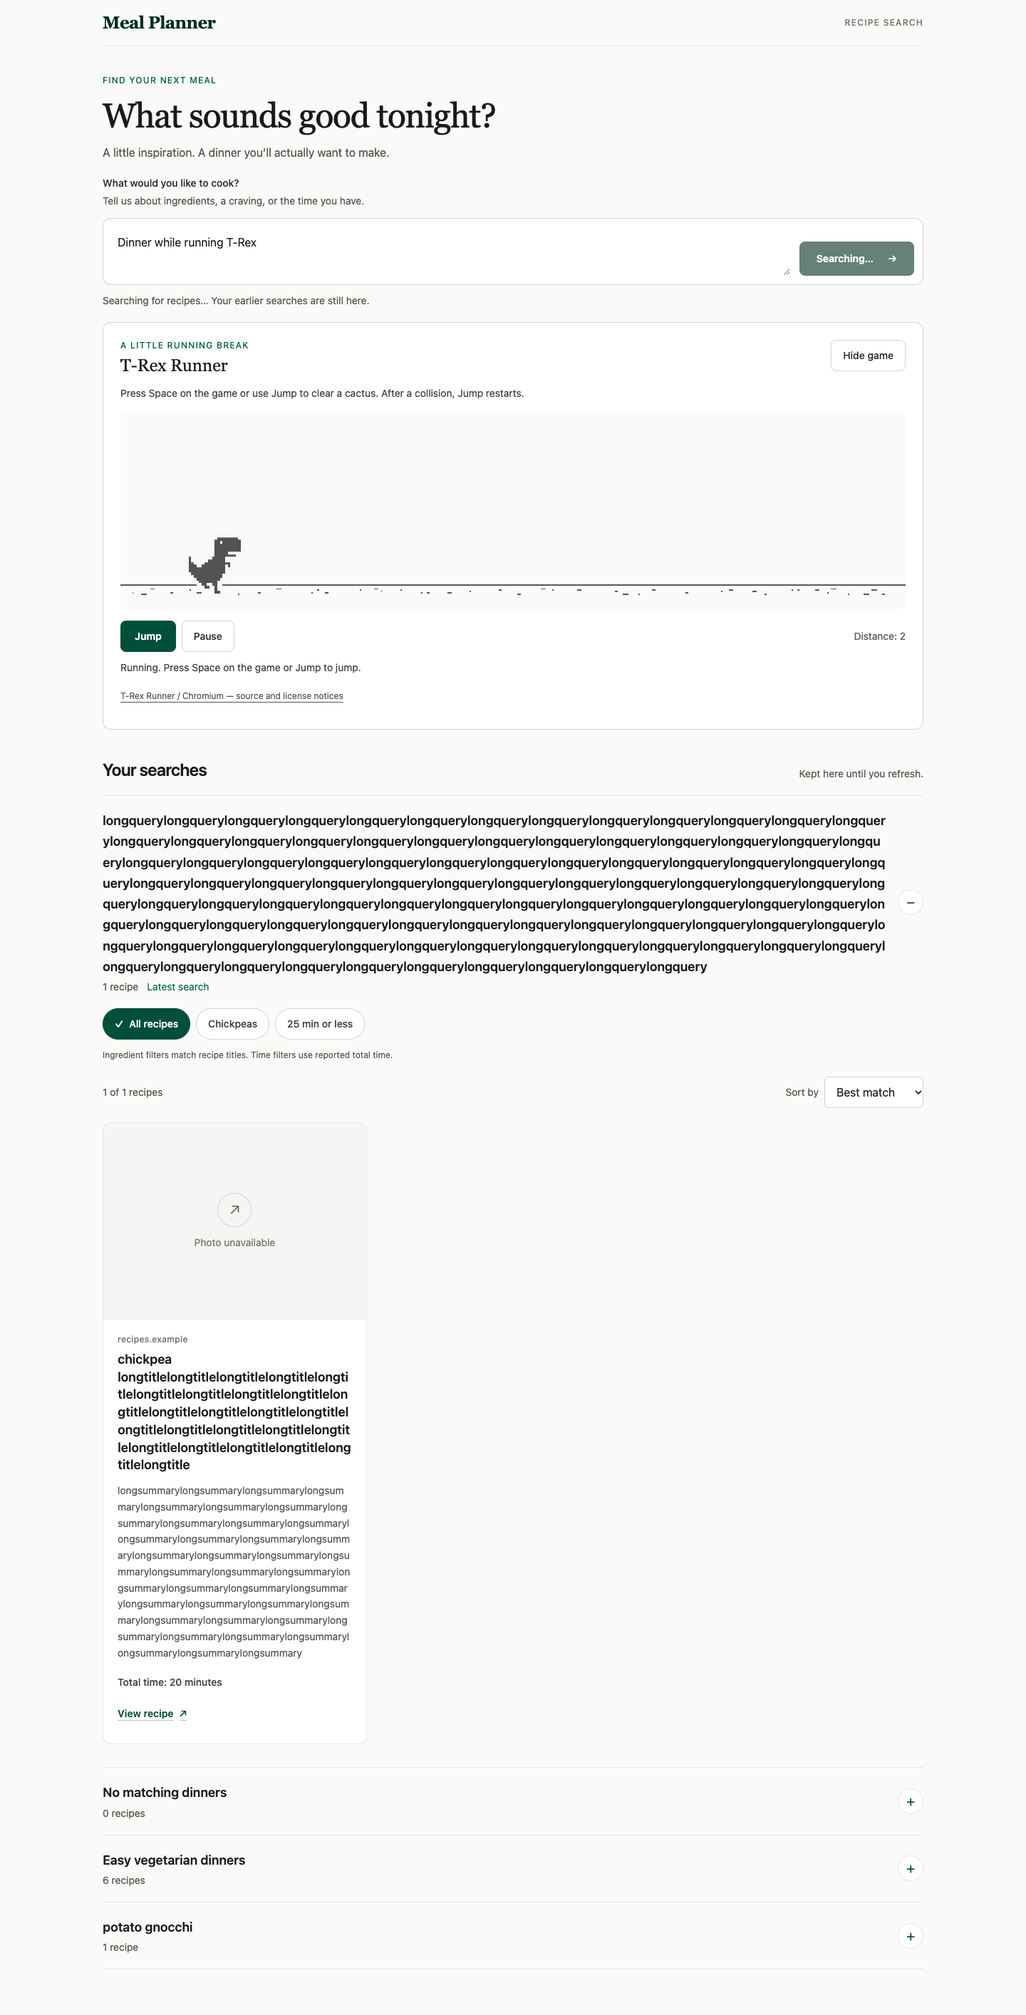
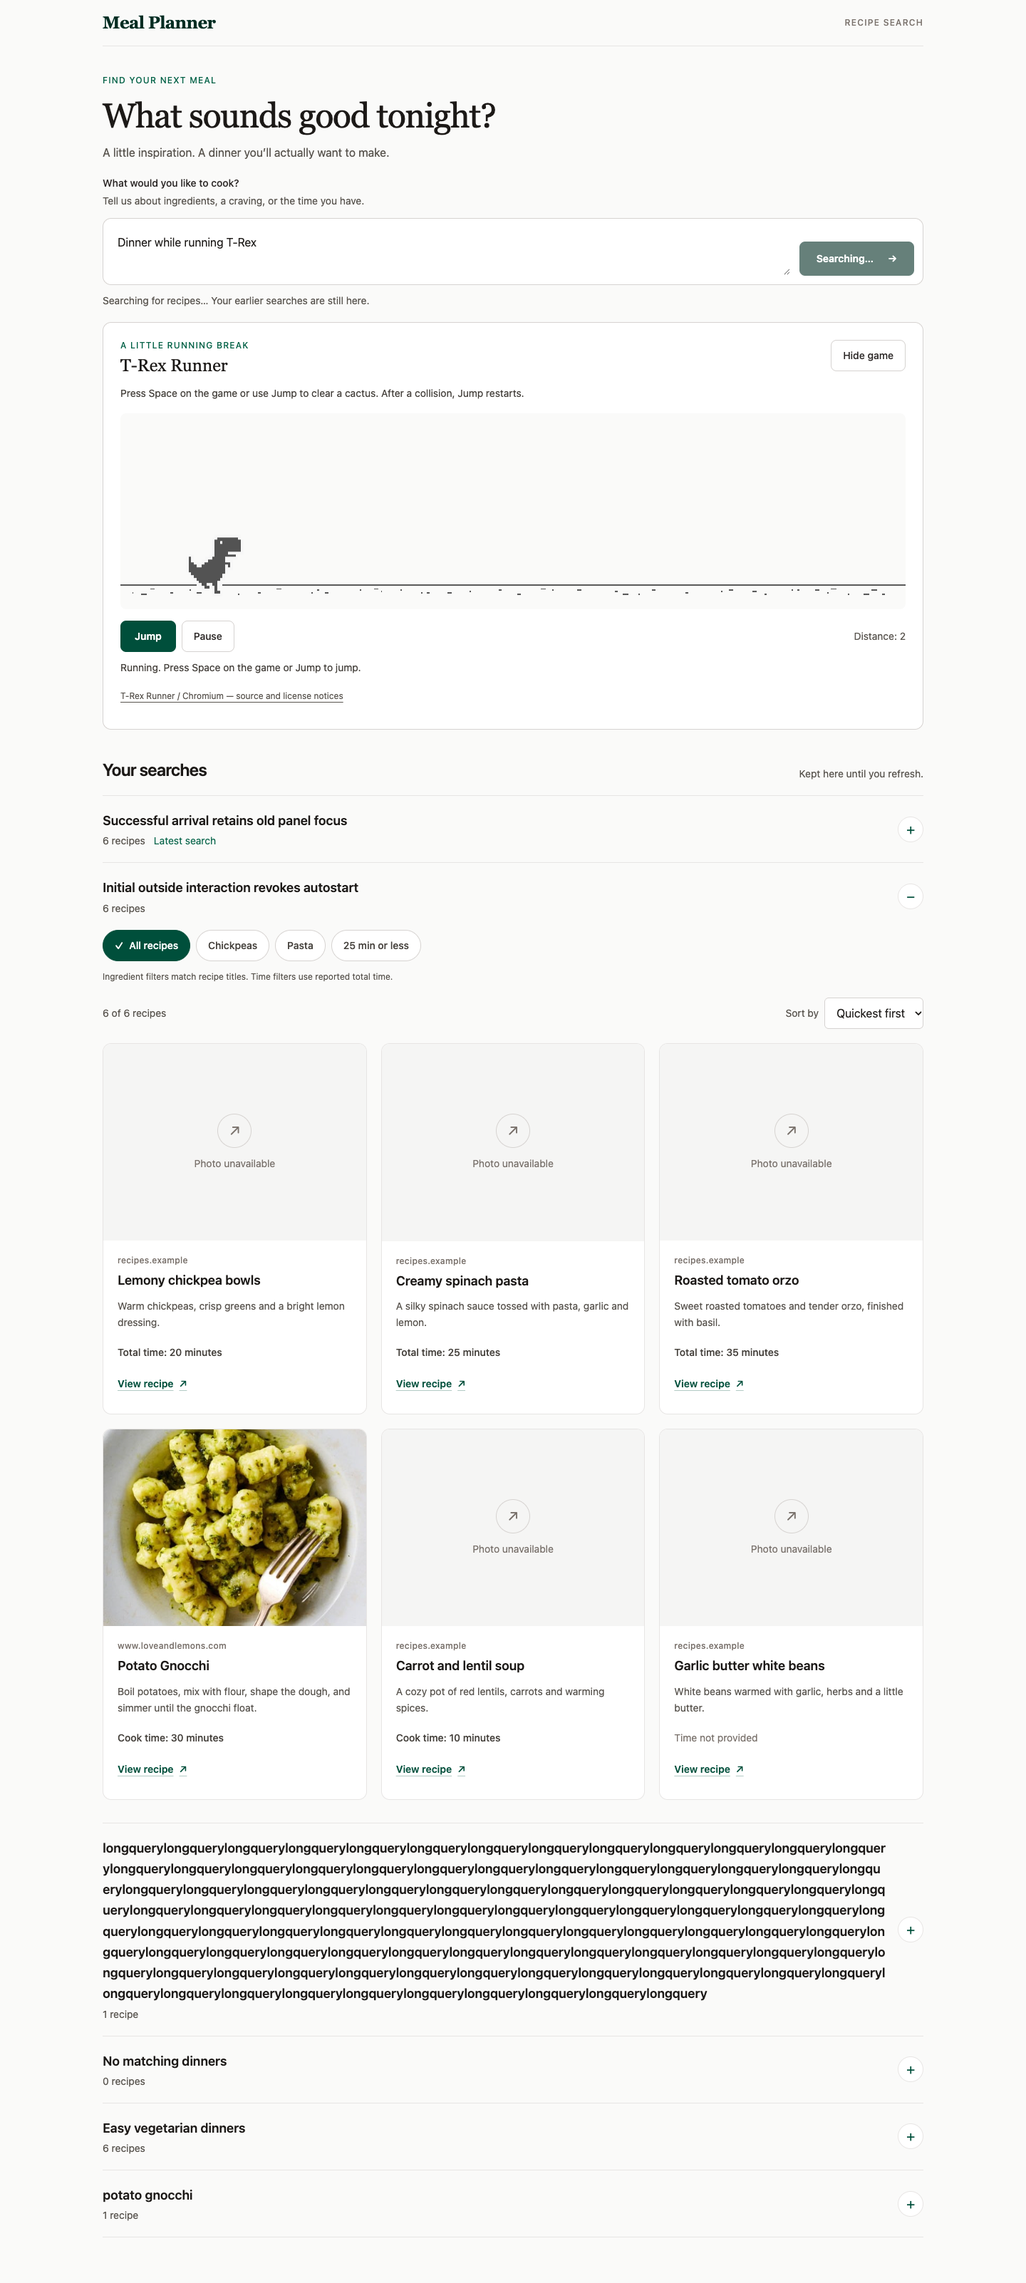
fix: pause T-Rex when initial focus eligibility is revoked

diff --git a/tests/auth/browser.ts b/tests/auth/browser.ts
@@ -205,6 +205,40 @@ try {
     await send('Emulation.setTouchEmulationEnabled', { enabled: touch, maxTouchPoints: 1 });
     const baseline = await resources();
     assert.equal(baseline.frames, 0);
+    // Force a genuine focus/pointer interaction after submit queued a round,
+    // but before React's first commit. Images are still held when focus returns.
+    fixtureRecipes=dinnerRecipes;
+    await send('Network.setCacheDisabled',{cacheDisabled:true});
+    holdSprites=true;
+    await evaluate('window.__runnerProbe.revokeInitialFocus=true');
+    await holdQuery('Initial outside interaction revokes autostart');
+    assert.equal(await evaluate('document.activeElement.id'),await evaluate('window.__runnerProbe.revokedTarget'));
+    for(let attempt=0;attempt<100&&!heldSprites.length;attempt++)await new Promise(resolve=>setTimeout(resolve,25));
+    assert.ok(heldSprites.length,'sprites are held before focus returns');
+    await evaluate('document.querySelector("#t-rex-surface").focus()');
+    await releaseSprites();
+    await waitFor('!document.querySelector("#t-rex-jump").disabled');
+    assert.equal(await evaluate('document.querySelector("#t-rex-surface").dataset.mode'),'paused','revoked initial eligibility cannot be restored by focus or late sprites');
+    assert.equal((await resources()).frames,0);
+    await key(' ','Space',32,' ');
+    assert.equal(await evaluate('document.querySelector("#t-rex-surface").dataset.mode'),'paused');
+    await activate('#t-rex-pause',touch);
+    await waitFor('document.querySelector("#t-rex-surface").dataset.mode==="running"');
+    await finishQuery();
+    await send('Network.setCacheDisabled',{cacheDisabled:false});
+    assert.deepEqual(await resources(),baseline);
+
+    // Successful arrival while an earlier result control has focus retains
+    // that exact node, open panel and sort, while still inserting new history.
+    await holdQuery('Successful arrival retains old panel focus');
+    await evaluate(`(() => {const control=document.querySelector('select');control.value='quickest';control.dispatchEvent(new Event('change',{bubbles:true}));control.focus();window.__runnerProbe.oldControl=control;window.__runnerProbe.oldPanel=control.closest('[data-search-panel]').id;})()`);
+    const beforeOldPanel=await evaluate('document.querySelectorAll("button[aria-expanded]").length');
+    await finishQuery();
+    assert.ok(await evaluate('document.activeElement===window.__runnerProbe.oldControl'));
+    assert.equal(await evaluate('document.querySelector("[data-search-panel]:not([hidden])").id'),await evaluate('window.__runnerProbe.oldPanel'));
+    assert.equal(await evaluate('document.activeElement.value'),'quickest');
+    assert.equal(await evaluate('document.querySelectorAll("button[aria-expanded]").length'),Number(beforeOldPanel)+1);
+    assert.deepEqual(await resources(),baseline);
     fixtureRecipes = dinnerRecipes;
     const requestsBefore = searchRequests;
     await holdQuery('Dinner while running T-Rex', touch ? 'touch' : 'mouse');
@@ -455,6 +489,16 @@ try {
     const getContext=HTMLCanvasElement.prototype.getContext;
     HTMLCanvasElement.prototype.getContext=function(...args){if(this.id==='t-rex-surface'&&window.__runnerProbe?.failContext)return null;return getContext.apply(this,args);};
     window.__runnerProbe={counts:()=>({frames:frames.size,observers:observers.size,listeners:[...listeners.values()].reduce((n,set)=>n+set.size,0)})};
+    const fetchOriginal=window.fetch;
+    window.fetch=function(...args){
+      if(window.__runnerProbe.revokeInitialFocus&&String(args[0]).includes('/api/recipes/search')){
+        window.__runnerProbe.revokeInitialFocus=false;
+        const outside=document.querySelector('button[aria-expanded]');
+        window.__runnerProbe.revokedTarget=outside.id;
+        outside.focus();outside.dispatchEvent(new PointerEvent('pointerdown',{bubbles:true}));
+      }
+      return fetchOriginal.apply(this,args);
+    };
   })()` });
   const app = await startServer({}, true);
   server = app;

diff --git a/app/recipe-search.tsx b/app/recipe-search.tsx
@@ -1,6 +1,6 @@
 "use client";
 
-import { useEffect, useLayoutEffect, useReducer, useRef, useState, type FormEvent } from "react";
+import { useCallback, useEffect, useLayoutEffect, useReducer, useRef, useState, type FormEvent } from "react";
 import type { Recipe } from "../lib/recipes/types";
 import { initialNotebook, notebookReducer } from "../lib/recipes/notebook";
 import { isRecord, validateQuery } from "../lib/recipes/validation";
@@ -28,14 +28,22 @@ export default function RecipeSearch() {
   const notebookRegion = useRef<HTMLDivElement>(null);
   const focusAfterCommit = useRef<string | null>(null);
 
+  // The same initial interaction token authorizes both focus and automatic motion.
+  // A failed first-commit check must not be revived by later sprite loading/focus.
+  const canAutoStart = useCallback((id: number) => {
+    const intent = initialFocus.current;
+    return Boolean(intent && intent.id === id && generation.current === id
+      && pending.current && !pending.current.signal.aborted && intent.version === interactionVersion.current
+      && intent.form.contains(document.activeElement));
+  }, []);
+
   // Commit-time focus is never deferred to asset callbacks.
   // https://react.dev/learn/manipulating-the-dom-with-refs
   useLayoutEffect(() => {
     const intent = initialFocus.current;
+    const focusGame = intent && runner?.visible && runner.requestId === intent.id && canAutoStart(intent.id);
     initialFocus.current = null;
-    if (intent && runner?.visible && runner.requestId === intent.id && generation.current === intent.id
-      && pending.current && !pending.current.signal.aborted && intent.version === interactionVersion.current
-      && intent.form.contains(document.activeElement)) {
+    if (focusGame) {
       document.getElementById("t-rex-surface")?.focus({ preventScroll: true });
     }
     const id = focusAfterCommit.current;
@@ -44,7 +52,7 @@ export default function RecipeSearch() {
     const target = document.getElementById(id);
     target?.focus({ preventScroll: true });
     if (id.startsWith("search-heading-")) target?.scrollIntoView({ behavior: "instant", block: "start" });
-  }, [runner?.requestId, runner?.visible, notebook.selectedId]);
+  }, [runner?.requestId, runner?.visible, notebook.selectedId, canAutoStart]);
 
   function hideRunner(snapshot: RunnerState) {
     if (!runner) return;
@@ -140,7 +148,7 @@ export default function RecipeSearch() {
         {error ? <p role="alert" className="mt-3 rounded-lg border border-red-200 bg-red-50 p-4 text-sm text-red-900">{error}</p> : null}
       </section>
       <div ref={gameRegion}>
-        {runner?.visible ? <TRexRunner key={runner.requestId} initial={runner.snapshot} onHide={hideRunner} />
+        {runner?.visible ? <TRexRunner key={runner.requestId} requestId={runner.requestId} initial={runner.snapshot} canAutoStart={canAutoStart} onHide={hideRunner} />
           : runner ? <button id="t-rex-show" type="button" onClick={() => {
             focusAfterCommit.current = "t-rex-surface";
             runnerAction({ type: "show", requestId: runner.requestId });

diff --git a/app/t-rex-runner.tsx b/app/t-rex-runner.tsx
@@ -4,23 +4,26 @@ import { useLayoutEffect, useRef, useState } from "react";
 import { mountRunnerCanvas, type RunnerCanvas, type RunnerView } from "../lib/t-rex-canvas";
 import type { RunnerState } from "../lib/t-rex-runner";
 
-type Props = { initial: RunnerState; onHide: (snapshot: RunnerState) => void };
+type Props = { requestId: number; initial: RunnerState; canAutoStart: (requestId: number) => boolean; onHide: (snapshot: RunnerState) => void };
 const control = "min-h-11 min-w-11 rounded-lg border border-stone-300 bg-white px-4 py-2 text-sm font-medium text-stone-800 hover:bg-stone-50 focus-visible:outline-2 focus-visible:outline-offset-2 focus-visible:outline-emerald-800";
 
-export default function TRexRunner({ initial, onHide }: Props) {
+export default function TRexRunner({ requestId, initial, canAutoStart, onHide }: Props) {
   const section = useRef<HTMLElement>(null);
   const canvas = useRef<HTMLCanvasElement>(null);
   const controller = useRef<RunnerCanvas | null>(null);
+  const initialEligibility = useRef<boolean | null>(null);
   const [view, setView] = useState<RunnerView>({ mode: initial.mode, score: Math.floor(initial.distance / 10), status: "Loading sprites…", loading: true, unavailable: false, y: initial.y });
 
   useLayoutEffect(() => {
     if (!canvas.current || !section.current) return;
+    // Keep the one first-commit decision across Strict Mode effect replay.
+    if (initialEligibility.current === null) initialEligibility.current = canAutoStart(requestId);
     const mounted = mountRunnerCanvas(canvas.current, section.current, initial, next => {
       setView(previous => previous.mode === next.mode && previous.score === next.score && previous.status === next.status && previous.y === next.y ? previous : next);
-    });
+    }, initialEligibility.current);
     controller.current = mounted;
     return () => { mounted.dispose(); controller.current = null; };
-  }, [initial]);
+  }, [initial, requestId, canAutoStart]);
 
   return <section ref={section} aria-labelledby="t-rex-title"
     onBlur={event => { if (!event.currentTarget.contains(event.relatedTarget)) controller.current?.pause("focus"); }}

diff --git a/lib/t-rex-canvas.ts b/lib/t-rex-canvas.ts
@@ -13,8 +13,10 @@ export const SPRITE_LAYOUT = {
 export type RunnerView = { mode: RunnerState["mode"]; score: number; status: string; loading: boolean; unavailable: boolean; y: number };
 export type RunnerCanvas = { jump: (repeat?: boolean) => void; pause: (reason: string) => void; resume: () => void; snapshot: () => RunnerState; dispose: () => void };
 
-export function mountRunnerCanvas(canvas: HTMLCanvasElement, section: HTMLElement, initial: RunnerState, onView: (view: RunnerView) => void): RunnerCanvas {
-  let state = initial;
+export function mountRunnerCanvas(canvas: HTMLCanvasElement, section: HTMLElement, initial: RunnerState, onView: (view: RunnerView) => void, autoStartAllowed = false): RunnerCanvas {
+  // Automatic motion requires the parent's first-commit interaction eligibility,
+  // not merely focus that may return before a delayed image callback.
+  let state = autoStartAllowed ? initial : pauseRunner(initial, "focus");
   let disposed = false;
   let image: HTMLImageElement | null = new Image();
   let loaded = false;

diff --git a/org/reviews/code-t-rex-runner-001.md b/org/reviews/code-t-rex-runner-001.md
@@ -1,0 +1,86 @@
+# T-Rex Runner — independent code review
+
+- Date: 2026-11-24
+- Reviewer: reviewer (independent of senior-developer)
+- Assignment: code-t-rex-runner-001
+- Candidate: 1017d39, including cbfc8c4/c538ab7; base 89517cc
+- Verdict: Changes requested — one required autofocus/autostart correction
+
+## Required finding
+
+**[Bugs, P2] Revoked initial focus must also revoke automatic running —
+app/recipe-search.tsx:33–40 and lib/t-rex-canvas.ts:91–99.** The parent correctly
+skips initial autofocus when another interaction invalidates its token, but
+leaves the new simulation running. The child has not yet held focus, so no
+section blur pauses it. If the user then focuses the canvas before delayed
+sprites load, onload sees eligible focus and schedules running without Resume.
+This violates the approved requirement that an initial outside interaction
+leave play paused and that asset completion cannot undo revoked autostart.
+
+Propagate failed initial eligibility into paused simulation/controller state
+before asset completion can schedule. Preserve the normal child-before-parent
+layout ordering: merely checking focus during child mount would incorrectly
+pause every ordinary start before the parent has focused it. Add the promised
+browser regression that submits then focuses/clicks elsewhere before initial
+commit, confirms focus is not stolen, focuses the canvas before held sprites
+are released, and confirms it remains paused until explicit Resume. The harness
+currently tests outside-query focus only after ordinary startup, which cannot
+catch this branch. Also retain the specification's old-panel successful-arrival
+assertion when extending these focus checks; current old-panel coverage ends
+with malformed-response error rather than successful history insertion.
+
+Confirmed the controller consequence using a read-only Node/tsx fake-DOM
+probe: mount a fresh running state with outside focus (0 frames), focus the
+surface before its held image.onload, then invoke onload: state remains running
+and schedules 1 frame without Resume. No source modification was needed for
+that reproduction. The parent code establishes the reachable revoked-initial-
+focus path described above.
+
+## Remaining assessment and evidence
+
+Read approved intent/spec/plan, changed tests first, then simulation, session,
+canvas, React integration, browser harness, docs/provenance and full source
+diff. No other required finding identified. Fixed 600×150 coordinates, exact
+original hitboxes, bounded 50ms deltas/substeps, deterministic gap generation
+and all 121 allowed gaps have meaningful tests. Request IDs and original
+generation/abort guards prevent stale termination; success/zero discard all
+session modes and owned resources immediately. Scoped Space, native controls,
+pause/visibility/reduced motion and conditional completion focus are separated
+from recipe request semantics.
+
+The small pure physics/session modules, instance-owned renderer and React
+component follow the approved boundaries without engine/dependency changes.
+Only the five obsolete Word Snack source/test files were removed; historical
+audits remain. Game input/score stays local, no vendor singleton or remote game
+code executes, and auth/provider/photo transport remain unchanged.
+
+The 15 focused physics/session/asset tests passed after mutation restoration.
+They independently verify shipped exact PNG hashes/dimensions/crop bounds, both
+unchanged full BSD notice hashes in shipped notices and extraction credit.
+The implemented adaptation map matches the selected calculations/hitboxes,
+sprite offsets and drawing portions. Prior independent provenance clearance
+is retained; actual local authenticated notice access and anonymous asset
+protection are asserted by the browser harness.
+
+Inspected actual t-rex-running-320.png and t-rex-running-1440.png with view_image:
+recognizable original dinosaur, full available desktop width, wrapped mobile
+controls and no visible clipping/overflow. This is screenshot inspection, not
+a separate reviewer browser run. Implementation evidence reports 79 application,
+12 auth, 12 smoke and 7 workflow tests plus lint/types/build and five-width Chrome
+passing; current loop state records every strict runtime acceptance exit 0.
+
+Independently checked all 68 path hashes in the clean-snapshot evidence map
+against workspace: no mismatches; all five removals absent. No downloaded code
+was executed during review. Actual screen-reader listening/live LLM grounding
+remain unperformed and disclosed.
+
+## Meaningful mutation and restoration
+
+After root confirmed acceptance checks stopped, inverted the end condition in
+lib/t-rex-session.ts. Session tests exited 1 with two failures, including the
+unconditional terminal-discard test. Restored exact original bytes in finally:
+SHA-256 ff5a04243bc5cf677f32cef6491b803a719dd3e5bfb18e7d9d9970e55ede0a3c.
+All 15 focused physics/session/asset tests then passed. Source/test diff against
+1017d39 is clean; git diff --check passed. No reviewer build/auth/cache changes
+were made. Fix and affected re-verification are required before approval;
+human merge/release authorization is not granted.

diff --git a/intent/t-rex-runner/progress.md b/intent/t-rex-runner/progress.md
@@ -221,3 +221,50 @@ https://developer.mozilla.org/en-US/docs/Web/API/Window/matchMedia.
 Pinned adapted source mapping and notices are documented in provenance.md.
 Independent final code/security/license review is still required; this report
 is implementation evidence, not self-approval or merge/release authorization.
+
+## Independent review correction — revoked initial autostart
+
+Review code-t-rex-runner-001 identified a required first-commit race in candidate
+1017d39: skipping autofocus alone did not pause a fresh controller. Before the
+canvas ever held focus, moving elsewhere caused no section-blur event; focusing
+it again before delayed sprites loaded could start motion without Resume.
+
+A real Chrome regression first failed against the unchanged reviewed build:
+within the recipe fetch fixture, focus and a pointer interaction move outside
+synchronously after submission queued the round but before its initial commit.
+The test then focuses the canvas before releasing held sprites. Expected paused;
+actual running. This is a harness-only timing fixture; production fetch remains
+unchanged and no test endpoint or input bypass was added.
+
+The correction shares the initial request/interaction eligibility predicate
+between focus and motion. The child captures that first-commit decision once
+(retained across Strict Mode effect replay); the controller defaults to paused
+unless explicitly permitted before loading. Failed initial eligibility cannot
+be revived by later focus or image completion. Normal form-owned mouse, touch
+and keyboard submissions still receive automatic start, while explicit Resume
+is required after revocation. No simulation, source pin, notices or game rules
+changed.
+
+Added successful-old-panel coverage too: a pending result arrives while an
+older sort control is focused; the exact DOM control, open panel and quickest
+sort remain, and new history is inserted. This complements prior malformed-error
+and outside-query focus coverage.
+
+All required commands passed again in matching clean snapshot
+`/private/tmp/trex-implementation-m16a0ihf`: 79 application tests, 12 auth,
+12 smoke, 7 Python workflow tests, lint, strict types and production build.
+Expanded Chrome passed at all five widths including the new revoked-focus
+regression and successful-old-panel case, with normal real mouse/touch/keyboard
+starts still passing; ten deliberate fixture 429s and zero unexpected console/
+network errors. Current-feature t-rex-* captures were refreshed; historical
+Word Snack/notebook records remain untouched. Actual screen-reader listening
+and live LLM grounding remain unperformed as previously disclosed.
+
+Post-check 68-file source/config/test/asset comparison matches workspace and
+snapshot, with all five Word Snack removals absent in both. Aggregate SHA-256:
[1 lines of base64/hex data omitted]
+Detailed map: snapshot `.implementation-evidence.json`. The earlier candidate
+map is retained as historical evidence, not asserted current. No root dev cache
+or next-env changes were made; root owns runtime acceptance and the independent
+code/security recheck. React callback identity guidance was verified at
+https://react.dev/reference/react/useCallback.

diff --git a/org/messages/orchestrator-0038.md b/org/messages/orchestrator-0038.md
@@ -1,0 +1,16 @@
+---
+id: orchestrator-0038
+from: orchestrator
+to: senior-developer
+kind: handoff
+subject: Resolve T-Rex code-review focus race
+artifact: org/reviews/code-t-rex-runner-001.md
+requires_response: false
+in_reply_to: null
+status: open
+severity: null
+blocking: false
+created_at: "2026-11-24T14:58:15Z"
+---
+
+Independent review found P2 revoked-initial-autofocus autostart race; source/controller reproduction confirmed. Add failing real-browser submit-then-outside-interaction-before-first-commit with delayed sprites; require paused until Resume. Propagate denied initial eligibility to controller state while retaining normal pointer/touch starts. Add promised old-panel successful completion focus/selection regression. Minimal approved-plan fix, reverify matching source snapshot and obtain independent recheck. No budget/gate/source-pin changes.

diff --git a/org/messages/reviewer-0019.md b/org/messages/reviewer-0019.md
@@ -1,0 +1,16 @@
+---
+id: reviewer-0019
+from: reviewer
+to: orchestrator
+kind: review
+subject: T-Rex code review needs revoked-autostart correction
+artifact: org/reviews/code-t-rex-runner-001.md
+requires_response: false
+in_reply_to: null
+status: open
+severity: null
+blocking: false
+created_at: "2026-11-24T14:55:39Z"
+---
+
+One required P2: failed initial autofocus eligibility leaves fresh simulation running; if canvas receives focus before held image completes, image.onload autostarts without Resume. Propagate revoked eligibility into paused state and add submit/refocus-before-initial-commit regression. Read-only controller probe reproduced 0-to-1 frame consequence. Other source/physics/provenance/cleanup checks clear. Mutation killed by two tests, exact source restored; all 15 focused tests pass. No build/auth/cache edits. Recheck after fix required.
